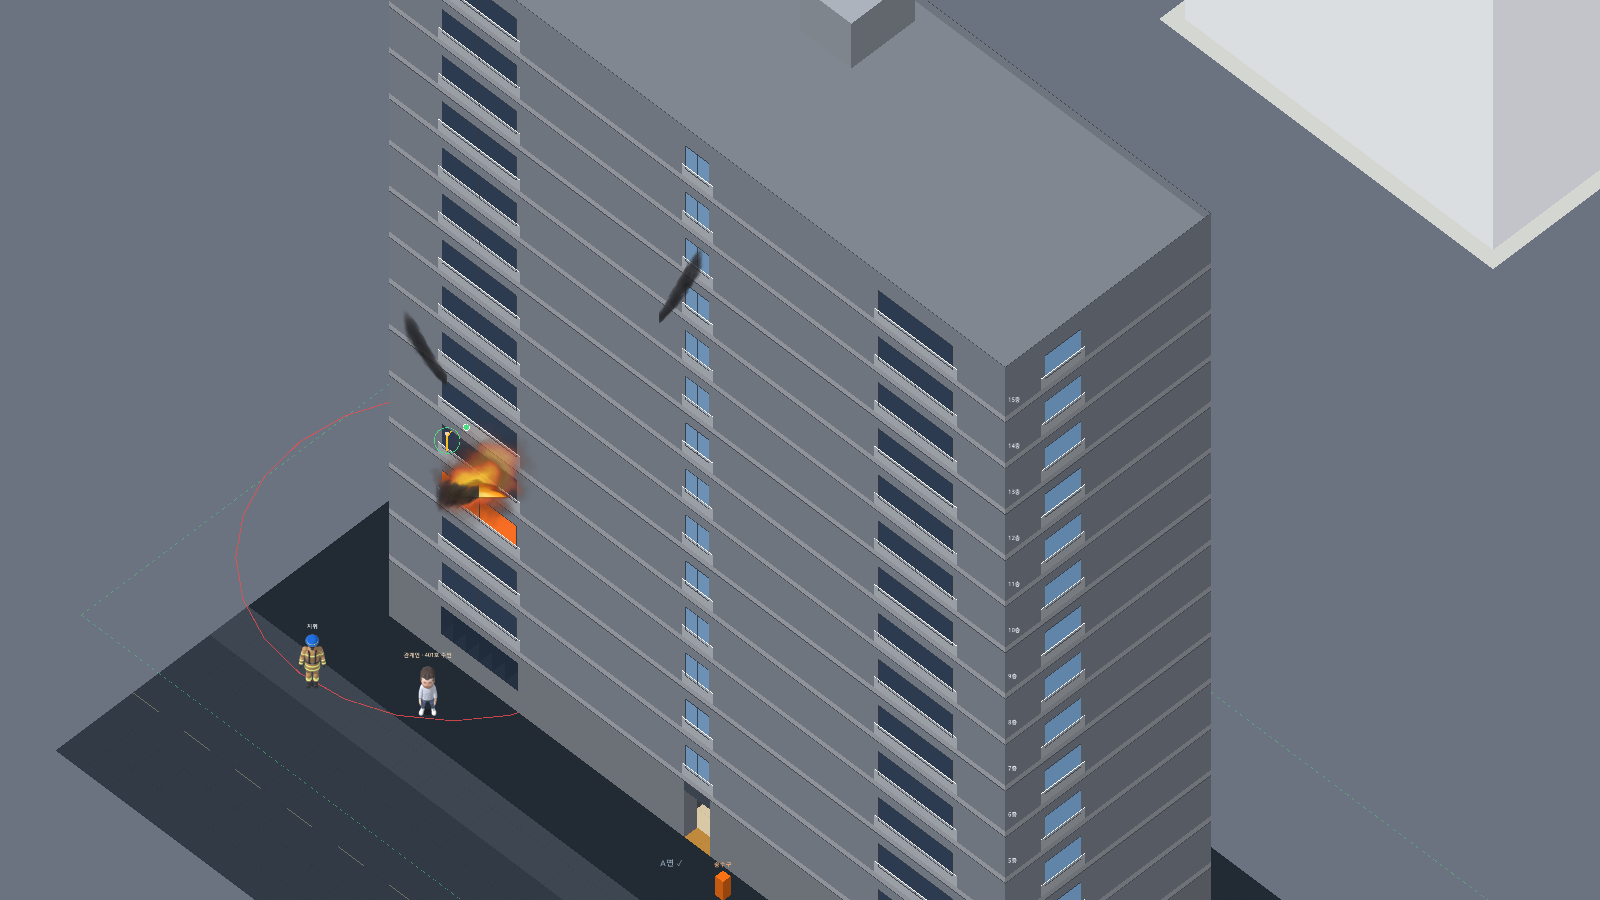
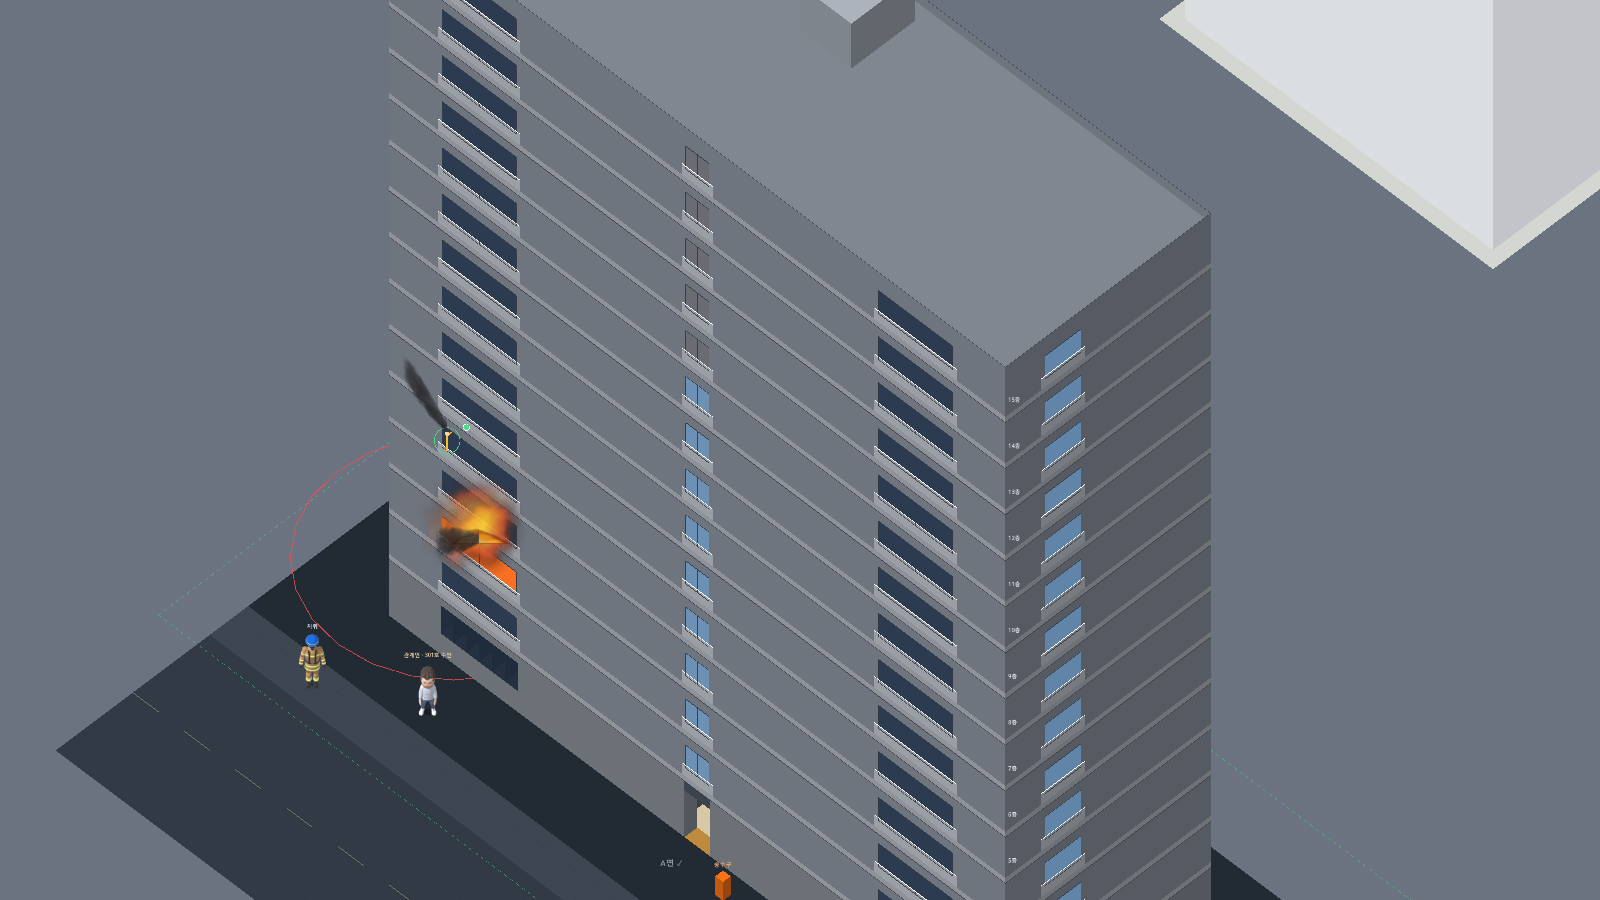
F01: 잘린 벽 높이 0.9층, 층 표시 규칙을 모든 건물의 표준으로 기록

diff --git a/docs/decisions.md b/docs/decisions.md
@@ -136,3 +136,4 @@
 | 2026-11-12 | F01 | 위층 바닥 턱 넓히기·그라데이션 | 뒷벽 쪽 턱 폭 = 턱 폭(1.1m) + 위층을 뒤로 비킨 거리 → 깨진 가장자리가 지금 층 뒷벽 바로 위까지. 벽 쪽은 진하고(0.7) 깨진 가장자리로 갈수록 투명(×0.1). 왼쪽 벽 쪽 턱은 폭 그대로(위층은 북쪽으로만 비켜 있다) + 같은 그라데이션 | 사용자 제안 — 뒤로 비킨 위층이 지금 층에서 떨어져 떠 보이던 것을 잇고, 넓힌 만큼 지금 층을 가리지 않게 |
 | 2026-11-12 | F01 | 위층 턱 그라데이션 없앰·바깥 점선 없앰 | 턱은 고른 진하기(0.7)로, 깨진 가장자리와 바닥판 두께가 다시 또렷하게. 위층 바깥 윤곽 점선(앞·오른쪽 바닥선·천장선·모서리 세로선)은 그리지 않음 — 위층은 뒷벽·왼쪽 벽 상자 + 넓힌 바닥 턱 + (더 있으면) 잘린 벽만 | 사용자 결정 — 그라데이션은 별로. 뒷벽과 바닥이 위층을 충분히 알려 주고, 점선은 지금 층 위를 가로질러 복잡함 |
 | 2026-11-12 | F01 | 위층 바닥 = 둥글게 뚫린 판 | 네모난 턱 → 구멍 가장자리가 둥글고 불규칙한 바닥판: 뒷벽 쪽은 양 끝이 두껍고 가운데가 1.2m 휘어 들어간 활 모양, 두 벽 모서리는 반지름 1.5m로 둥글게, 들쭉날쭉 ±0.2m. 가장 두꺼운 곳은 예전 폭(지금 층 뒷벽 바로 위)이라 더 가리지 않음. 바닥판 두께 0.2 → 0.3m, 두께 면은 윗면보다 어둡고 진하게(윗면은 밝게) | 사용자 제안 — 네모로 잘린 판이 아니라 구멍이 난 느낌. 두께가 안 보였던 것은 얇고 윗면과 색이 같아서 |
+| 2026-11-12 | F01 | 층 표시 규칙을 모든 건물의 표준으로 | 단면 보기의 층 표시는 모든 건물(앞으로 추가하는 건물 포함)에 같은 규칙: ① 지금 층 = 색 뺀 바탕 + 움직이는 것만 색, 실내 벽 천장까지 ② 바로 위층 = 뒤로 비켜(깊이 × 0.3) 뒷벽·왼쪽 벽 반투명 상자 + 둥글게 뚫린 바닥판 ③ 바로 아래층 = 구조 온전히, 흑백·어둡게 ④ 그 너머 = 잘린 벽(위: 뒷벽·왼쪽 벽, 아래: 앞·오른쪽 벽)만 ⑤ 다른 층의 연기·불은 숨김, 사람은 점선 테두리(먼 층은 없음), 바깥 땅은 원래 색. 건물 데이터(층·벽·계단)만 있으면 자동 적용 — 건물별 설정 없음. 잘린 벽 높이 0.5 → 0.9층 | 사용자 결정 — 앞으로 건물을 추가해도 이 방식으로 배치. 잘린 단면이 너무 작았음 |

diff --git a/docs/progress.md b/docs/progress.md
@@ -61,3 +61,4 @@
 | 2026-11-12 | F01 턱 넓히기·그라데이션 | scripts/ui/building/floor_layer(_draw_upper_ledge)·floor_stack(upper_back_cells)·view_params, data/ui/view_params(ghost_ledge_fade), tests/test_cutaway | 다음: 튜토리얼 단계 정비 |
 | 2026-11-12 | F01 턱 그라데이션·위층 점선 없앰 | scripts/ui/building/floor_layer(_draw_upper_outline 지움)·view_params, data/ui/view_params(ghost_ledge_fade 1.0) | 위층 사람 점선 테두리는 기준선 없이 떠 보일 수 있음. 다음: 튜토리얼 단계 정비 |
 | 2026-11-12 | F01 위층 바닥 둥근 구멍 | scripts/ui/building/floor_layer(_draw_upper_ledge)·view_params, data/ui/view_params(ghost_ledge_bow_m·ghost_ledge_round_m·ghost_slab_m 0.3, ghost_ledge_fade 지움) | 다음: 튜토리얼 단계 정비 |
+| 2026-11-12 | F01 층 표시 표준화·잘린 벽 키움 | data/ui/view_params(stub_height_ratio 0.9), scripts/ui/building/view_params, tests/test_cutaway | 6개 건물(일반 3층·아파트 15층·훈련탑·필로티·시장·초고층) 화면 확인. 다음: 튜토리얼 단계 정비 |
